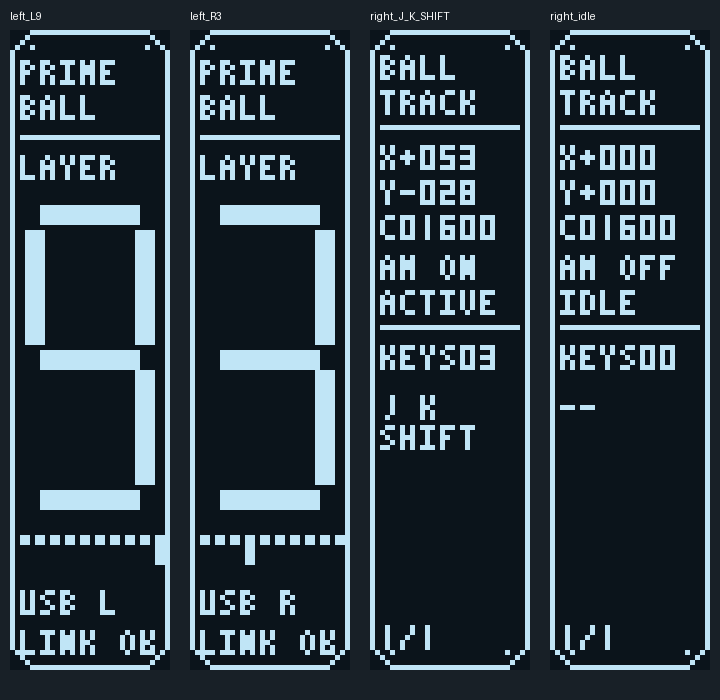
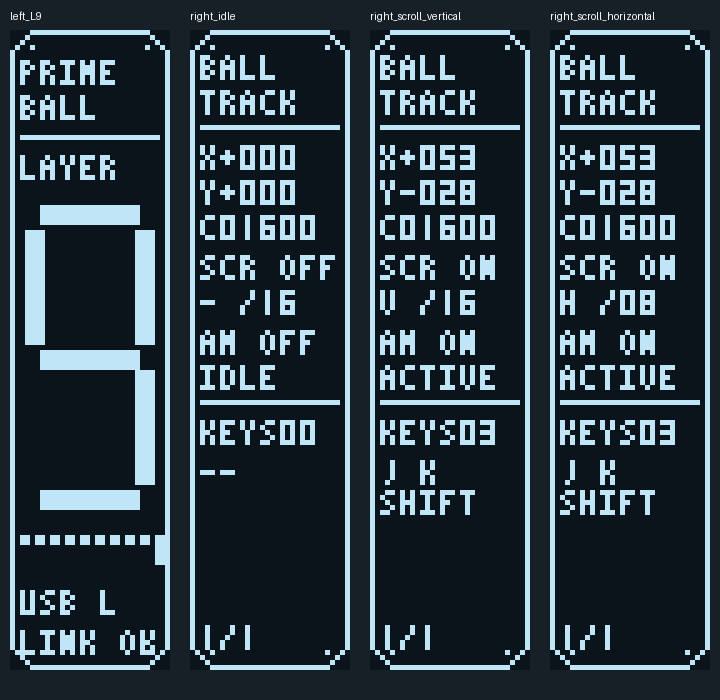
Update v2.8 axis-locked scroll guide and OLED preview

diff --git a/README.md b/README.md
@@ -2,18 +2,24 @@
 
 ケースとQMK / Remapファームウェアの配布データです。
 
-## v2.7
+[v2.8のダウンロード](https://github.com/Alco-1129/PrimebAll/releases/tag/v2.8)
 
-- 接続側ごとに独立して保存する10レイヤー（0～9）
 - USB接続側がセントラル、TRRSで左右を接続
-- 左OLED：大型レイヤー数字、USB接続側、レイヤーバー
-- 右OLED：移動量・CPI・オートマウス状態・複数の押下キー
+- 接続側ごとに独立して保存する10レイヤー（0～9）
+- SC Holdを押している間だけ、方向固定トラックボールスクロール
+- 12カウント・1.5倍の優勢方向を判定し、縦か横の一方だけを出力。180msの停止で再判定
+- Remap独自キーでCPI±、スクロール量±、オートマウスON/OFFを変更
+- 左OLED：大型レイヤー数字とUSB接続側
+- 右OLED：移動量・CPI・SCR ON/OFF・方向/分母・AM状態・複数の押下キー
 - 47灯・50パターン
 
+ケースを含む一式は `PrimebAll_case_firmware_v2_8.zip`、ファームウェアのみは `PrimebAll_firmware_v2_8.zip` を選んでください。
+通常版とRemap版のUF2、ソース、Remap定義、使い方を含みます。両側へ同じ版を書き込んでください。
 初期配列は共通です。左右それぞれをUSB接続してRemapで個別に変更できます。
-詳細はfirmware/使い方.txtを参照してください。
+使い方は一式ZIP内の `firmware/使い方.txt`、ファームウェアZIP内の `使い方.txt` を参照してください。
+v2.7の保存配列は維持できます。新しい定義を読み込み、追加の独自キーをRemapで配置してください。
 
-case/ はv2.6形状です。トップとボトムの2部品構成、テンティングなし、PETG / A1 mini対応。
-必須印刷数14個/セット。print_STL、形状3MF、STEP、Blender、フォームと再生成ソースを含みます。
+ケースはv2.6形状です。トップとボトムの2部品構成、テンティングなし、PETG / A1 mini対応。
+必須印刷数14個/セット。STL、3MF、STEP、Blender、フォームと再生成ソースを含みます。
 STEPは面分割近似を含むため、アルミ加工前に加工者の形状確認を受けてください。
-実物の嵌合・ガスケット・接着強度を試作で確認してください。
+ビルドとソフトウェア試験済みです。実機動作・嵌合・ガスケット・接着強度は試作で確認してください。
